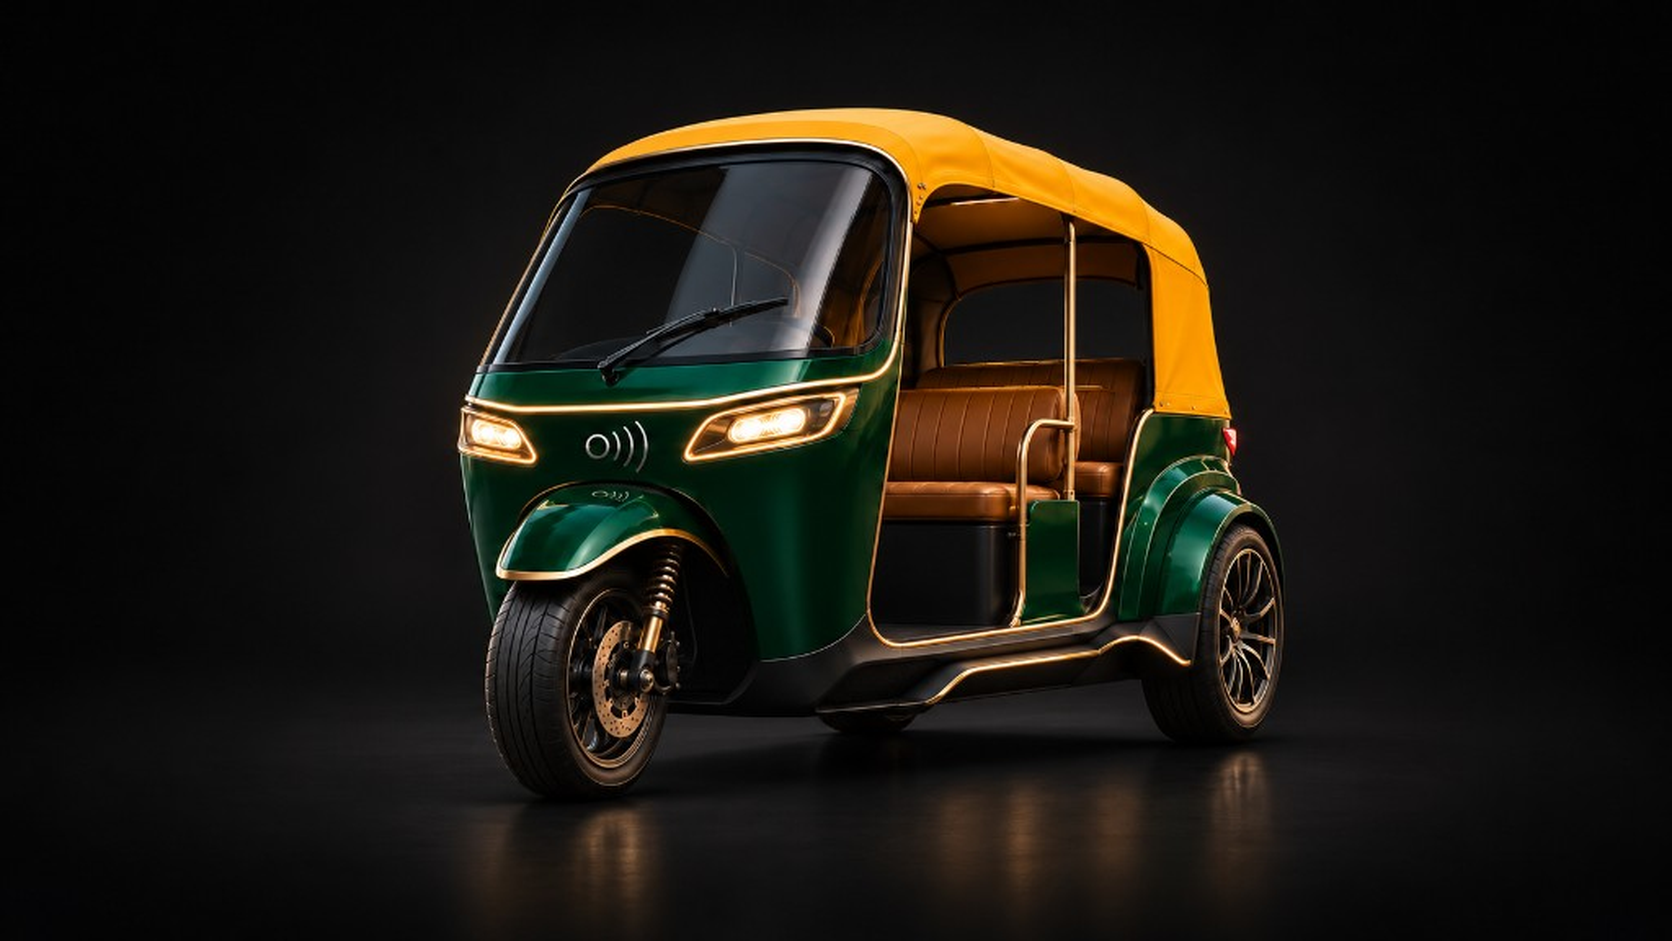
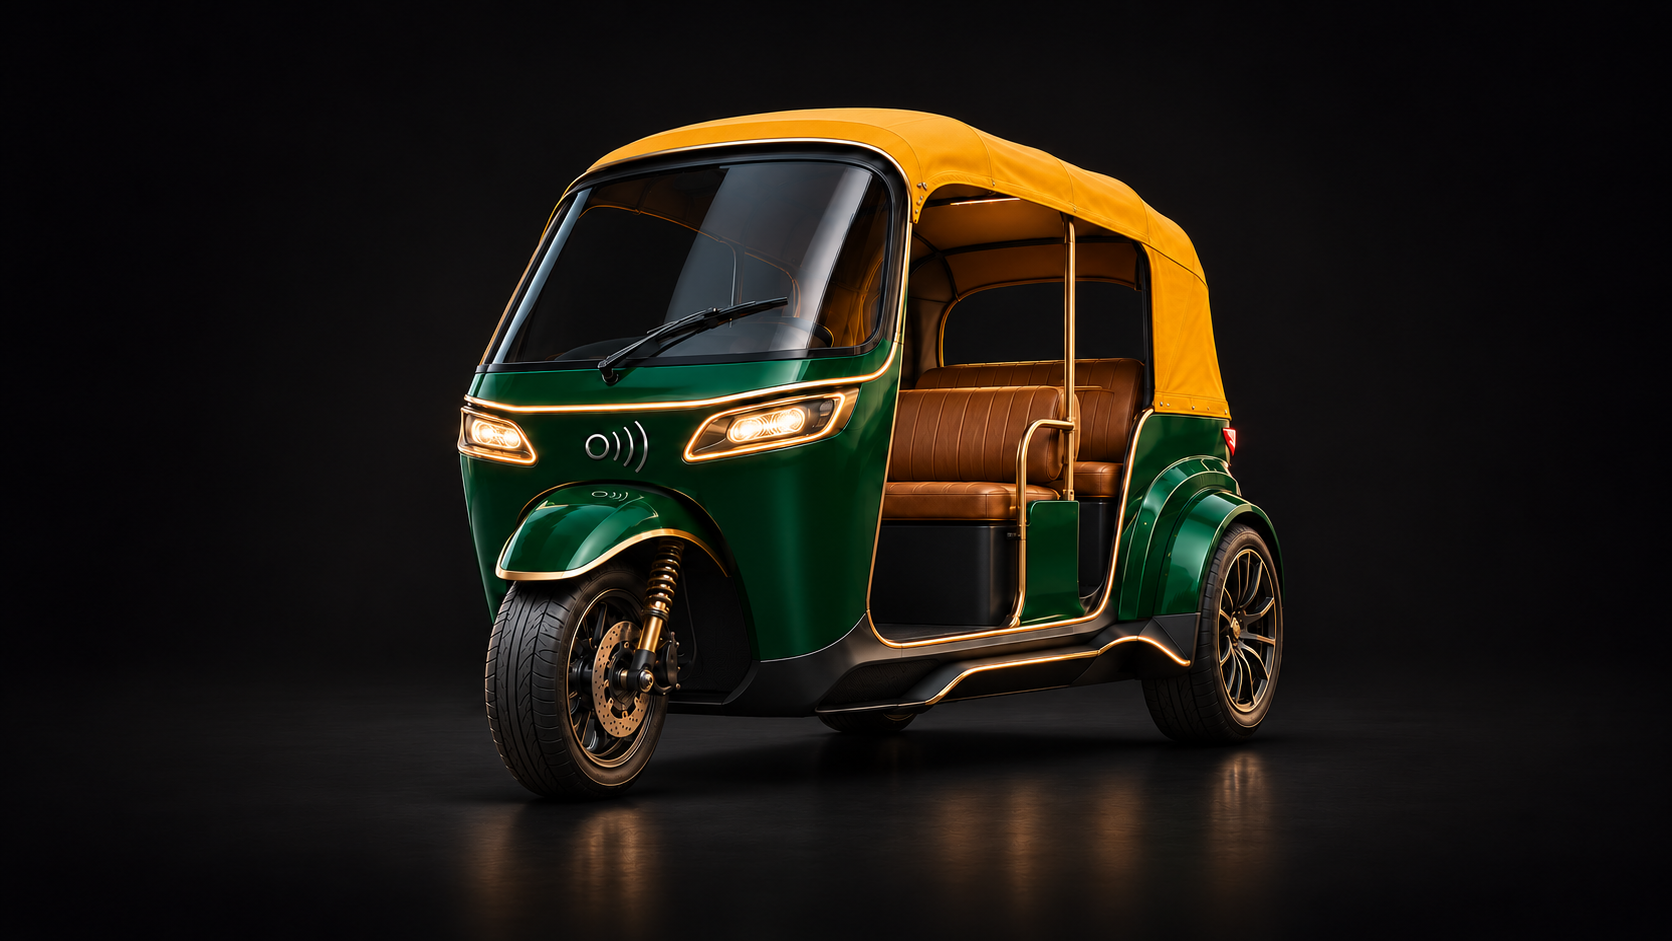
fix: use native 1672x941 stills for the latest heroes
The Vespa, rickshaw, and Cinematic Rock images had been enlarged from smaller uploads and looked softer than the rest of the catalog.

diff --git a/scripts/sync-profile-hero-images.py b/scripts/sync-profile-hero-images.py
@@ -69,6 +69,8 @@ MAP: dict[str, str] = {
     "world-space-drive": "Space Drive.png",
     "world-storm-run": "Storm Run.png",
     "symphony-cinematic-rock": "Cinematic Rock.png",
+    "bollywood-rickshaw": "Emerald ELCAMOSO rickshaw with marigold canopy.png",
+    "classic-vespa": "Restored black scooter studio portrait.png",
     "symphony-motion-orchestra": "Motion Orchestra.png",
     "symphony-neon-run": "Neon Drive.png",
     "fusion-road-anthem": "Road Anthem.png",
